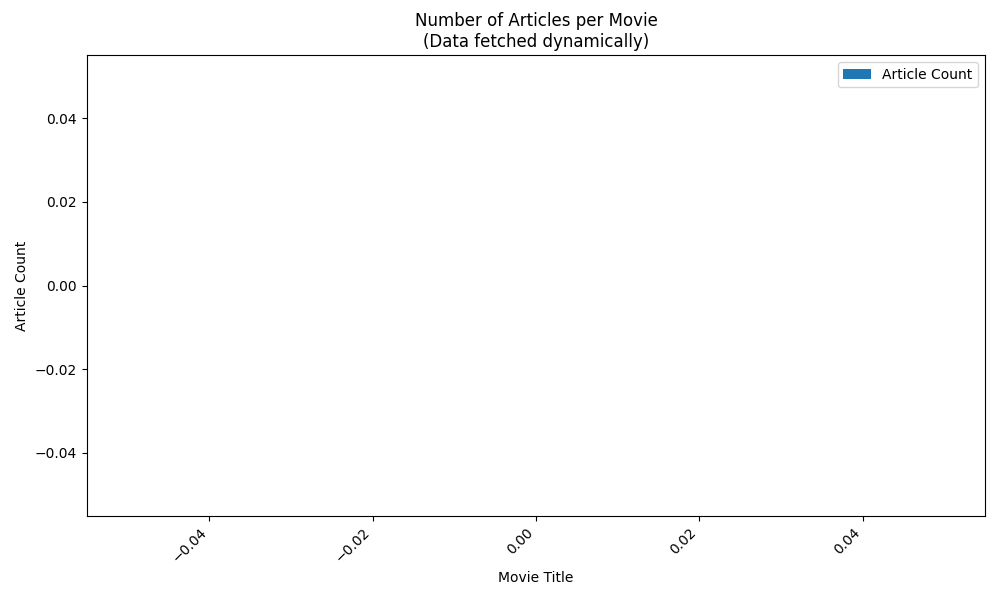
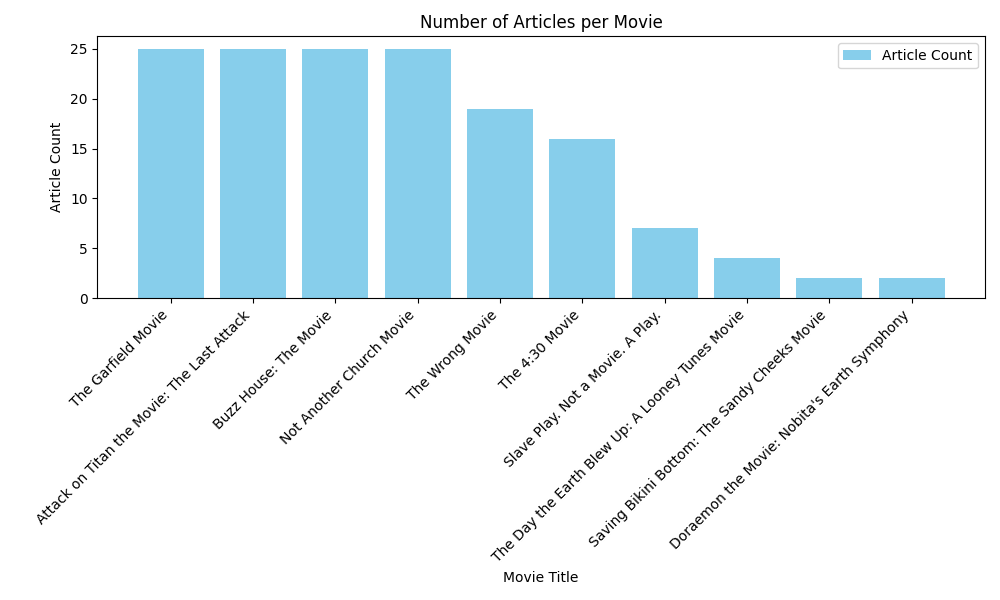
Created news.py visualizations and csv files

diff --git a/visualizations.py b/visualizations.py
@@ -160,10 +160,9 @@ def longest_movie_soundtracks_chart(cur):
     
     # Prepare duration in seconds for plotting
     duration_in_seconds = [seconds_from_timedelta(duration) for duration in durations]
-
     fig, ax = plt.subplots(figsize=(12,8))
     ax.bar(movie_titles, duration_in_seconds, color='green')
-    ax.set(xlabel="Movie Title", ylabel="Length (in Seconds)", title="2024 Movies(with Movie in the Title) with the Longest Soundtracks")
+    ax.set(xlabel="Movie Title", ylabel="Length (in Seconds)", title="2024 Movies (with Movie in the Title) with the Longest Soundtracks")
     fig.autofmt_xdate(rotation=20)
     fig.savefig("longest_movie_soundtracks.png")
     plt.show()
@@ -181,7 +180,7 @@ def articles_per_movie_chart(cur):
             SELECT Movies.title, COUNT(Articles.id) as article_count
             FROM Movies 
             JOIN Articles  ON Movies.id = Articles.movie_id
-            GROUP BY Movies.title
+            GROUP BY Movies.id
             ORDER BY article_count DESC
         """)
     article_counts = cur.fetchall()
@@ -191,7 +190,7 @@ def articles_per_movie_chart(cur):
 
     plt.figure(figsize=(10, 6))
     plt.bar(movie_titles, counts, color="skyblue", label="Article Count")
-    plt.title("Number of Articles per Movie\n(Data fetched dynamically)")
+    plt.title("Number of Articles per Movie")
     plt.xlabel("Movie Title")
     plt.ylabel("Article Count")
     plt.xticks(rotation=45, ha="right")
